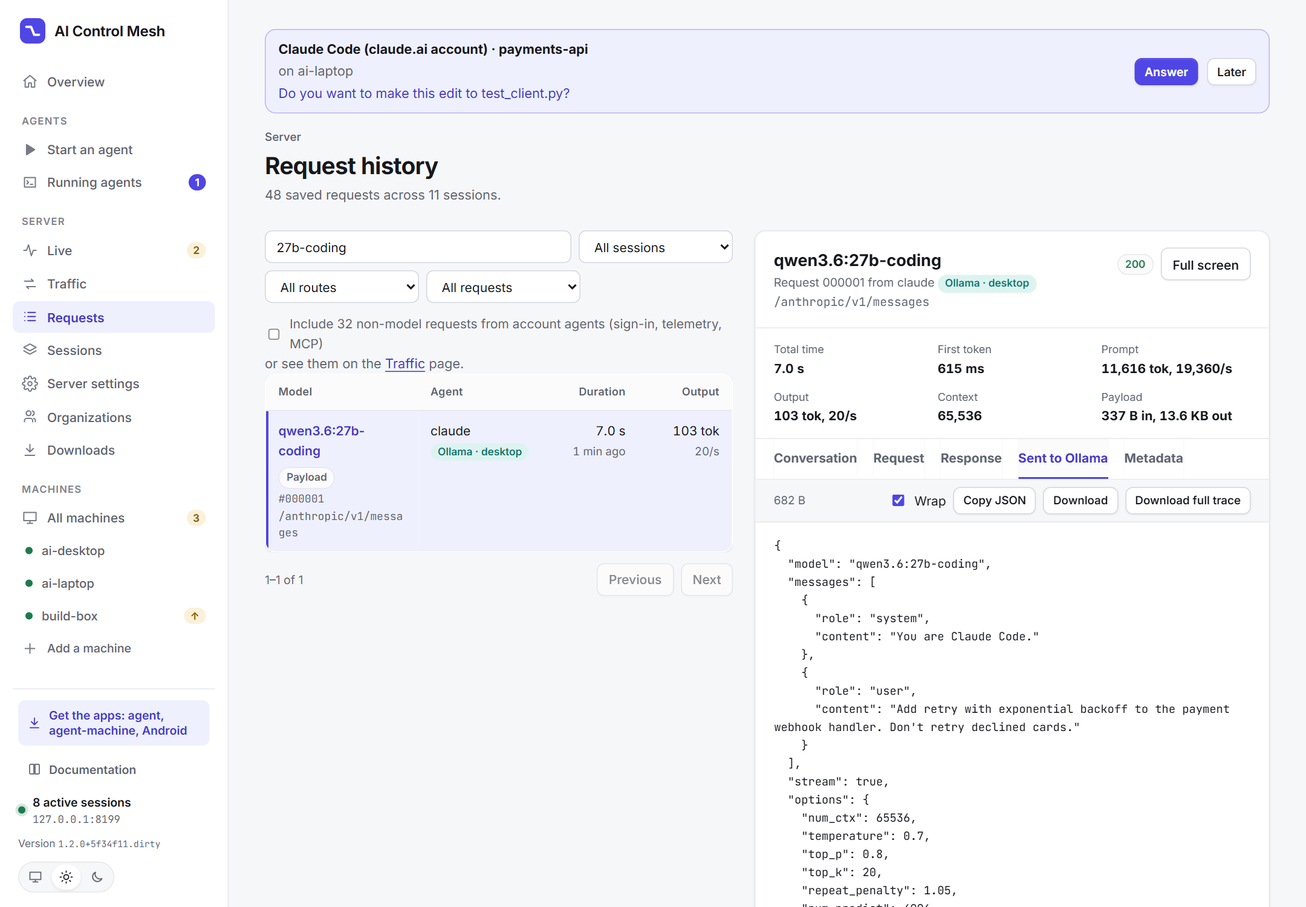
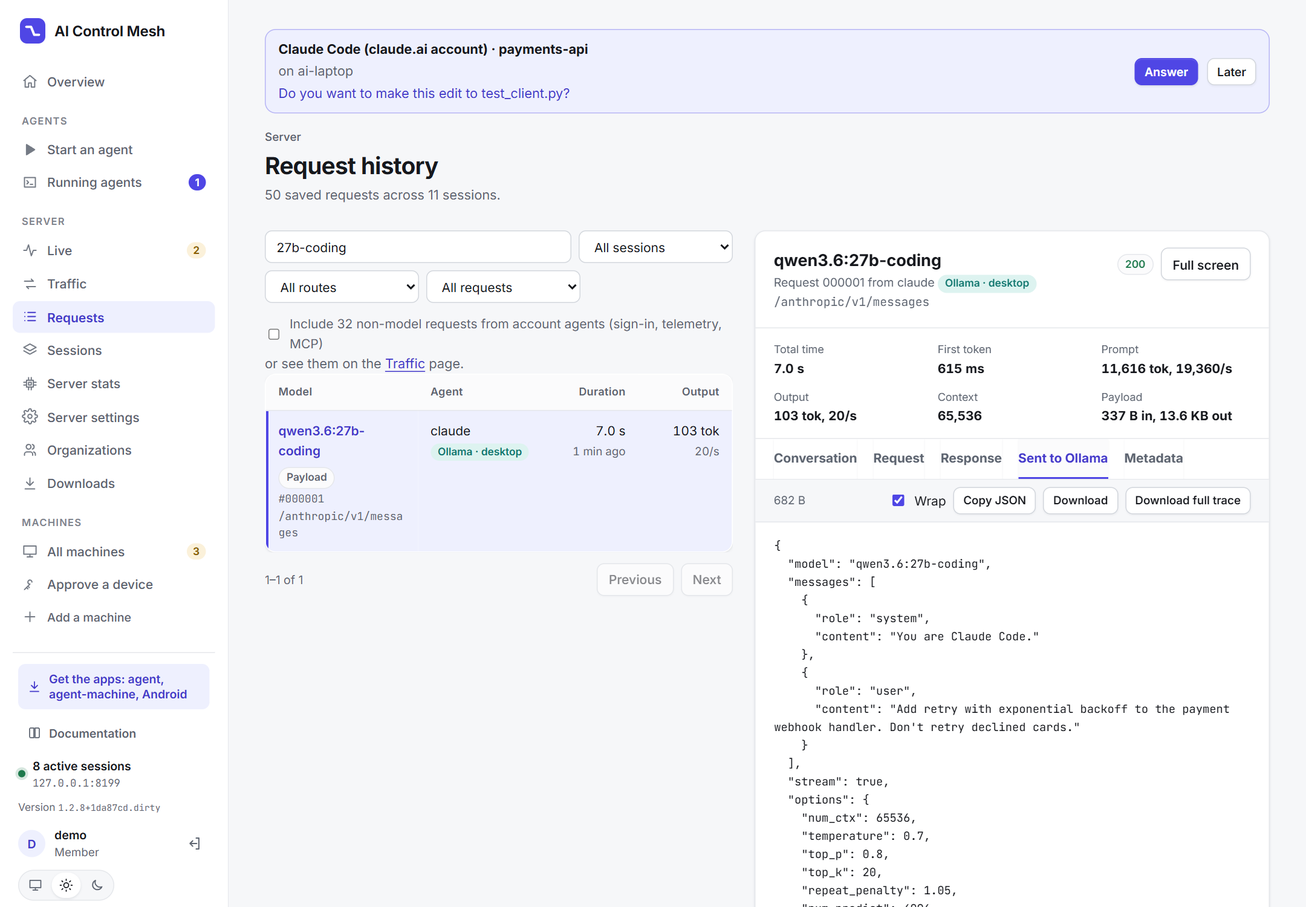
Review every docs page against the code, regenerate the screenshots, add Server stats; fix stale console and CLI wording

diff --git a/ui/src/pages/Settings.tsx b/ui/src/pages/Settings.tsx
@@ -126,7 +126,7 @@ export function SettingsPage() {
               <label className="field">
                 Listen host
                 <input value={host} onChange={(event) => setHost(event.target.value)} required />
-                <small>0.0.0.0 accepts other machines, and turns sign-in on.</small>
+                <small>0.0.0.0 accepts other machines. Sign-in is required either way.</small>
               </label>
               <label className="field">
                 Listen port
@@ -136,7 +136,7 @@ export function SettingsPage() {
               <label className="field span-2">
                 Address agent machines use
                 <input type="url" value={url} onChange={(event) => setUrl(event.target.value)} required />
-                <small>Shown for <code>agent login</code> and pairing. Use this machine's LAN or public address when sharing it.</small>
+                <small>Shown for <code>agent login</code> and <code>agent-machine login</code>. Use this machine's LAN or public address when sharing it.</small>
               </label>
               <label className="field span-2">
                 Public console address

diff --git a/site/index.html b/site/index.html
@@ -312,6 +312,7 @@
         <div class="section-heading">
           <p class="eyebrow eyebrow-dark">Make it your own</p>
           <h2 id="getting-started-title">A practical path<br>from checkout to mesh.</h2>
+          <p>Want to try it first? The <a href="https://console.aicontrolmesh.com/help/quickstart">quickstart</a> runs the server, sign-in, a database, two machines and Ollama on your own computer in containers, with one command.</p>
         </div>
         <ol class="setup-steps">
           <li><h3>Run your server</h3><p>Deploy with Docker or Python, put HTTPS in front of it, and create the accounts your team needs.</p><a href="https://console.aicontrolmesh.com/help/deployment">Deployment guide <span aria-hidden="true">→</span></a></li>

diff --git a/ui/src/pages/Sessions.tsx b/ui/src/pages/Sessions.tsx
@@ -178,7 +178,7 @@ export function SessionsPage() {
         onConfirm={() => removeAll.mutate()}
       >
         <p>
-          This permanently removes every saved request, telemetry file and payload, and deletes the sessions. Sessions
+          This permanently removes every saved request, payload and terminal recording, and deletes the sessions. Sessions
           used in the last 15 minutes stay, empty, so agents that are still running keep working. Sessions with a request
           in flight are skipped. It can't be undone.
         </p>

diff --git a/scripts/screenshots/demo.py b/scripts/screenshots/demo.py
@@ -52,6 +52,7 @@ LAPTOP, DESKTOP, ANTHROPIC, DOCKER = 18434, 18435, 18436, 18437
 PROXY = f"http://127.0.0.1:{PROXY_PORT}"
 AUTH = f"http://127.0.0.1:{AUTH_PORT}"
 DEMO_USER, DEMO_PASSWORD = "demo", "demo-screenshot-password"
+DEMO_ADMIN_PASSWORD = "demo-admin-screenshot-password"
 GB = 1024**3
 
 
@@ -1036,7 +1037,8 @@ def main() -> None:
     # The demo's own database (a SQLite file in its logs/), which the server below opens too.
     db = settings.open_database()
     users = UserStore(db)
-    users.add_user("demo-admin", secrets.token_urlsafe(32), role="admin")
+    # The admin capture.mjs signs in as for admin-only pages (Server settings, Server stats).
+    users.add_user("demo-admin", DEMO_ADMIN_PASSWORD, role="admin")
     users.add_user(DEMO_USER, DEMO_PASSWORD, role="member")
     issuer = Issuer(settings)
     try:
@@ -1098,7 +1100,7 @@ def main() -> None:
                     raise RuntimeError(f"Demo service did not become ready: {url}")
         credentials.headers()
         print(f"demo proxy on {PROXY} (data in {work})", flush=True)
-        print(f"isolated demo sign-in: {DEMO_USER} / {DEMO_PASSWORD}; issuer {AUTH}", flush=True)
+        print(f"isolated demo sign-in: {DEMO_USER} / {DEMO_PASSWORD}, admin demo-admin / {DEMO_ADMIN_PASSWORD}; issuer {AUTH}", flush=True)
         share_terminals()
         join_fleet()
         run_containers()

diff --git a/server/agent_server/commands.py b/server/agent_server/commands.py
@@ -40,7 +40,7 @@ def main(kind: str, argv: list[str]) -> int:
         elif kind == "config":
             text = sys.stdin.read() if args.file == "-" else Path(args.file).read_text(encoding="utf-8")
             changed = config_io.apply(Settings.load(), config_io.parse(text), replace=args.replace)
-            print(f"Stored {', '.join(changed) or 'nothing'}. A running agent-server picks up the listen address on its next restart.")
+            print(f"Stored {', '.join(changed) or 'nothing'}. A running agent-server uses them after a restart (agents at once).")
         elif args.action == "info":
             settings = Settings.load()
             db = settings.open_database()

diff --git a/server/agent_server/config.py b/server/agent_server/config.py
@@ -301,7 +301,7 @@ class Settings:
         else:
             effective_url = configured_url
         self.proxy_url = effective_url.rstrip("/")
-        self.default_backend = os.getenv("AI_PROXY_DEFAULT_BACKEND") or str(document.get("default_backend") or "laptop")
+        self.default_backend = os.getenv("AI_PROXY_DEFAULT_BACKEND") or str(document.get("default_backend") or defaults.DEFAULT_BACKEND)
         self.backends = {name: _backend(name, value) for name, value in (document.get("backends") or {}).items()}
         self.intercept = InterceptSettings.load(document.get("intercept") or {})
         tls = proxy_data.get("tls") or {}

diff --git a/server/agent_server/routes/management.py b/server/agent_server/routes/management.py
@@ -76,7 +76,7 @@ def register(app: FastAPI, runtime: Runtime) -> None:
 
     @app.post("/api/server/restart", status_code=202)
     async def restart(request: Request) -> dict[str, Any]:
-        """Restart with the configuration on disk, after in-flight requests finish (up to 30 s)."""
+        """Restart with the stored settings, after in-flight requests finish (up to 30 s)."""
         # Only admins get here (auth.ADMIN_ONLY).
         if not runtime.remote.trusted(request) or not remote.same_origin(request):
             raise HTTPException(status_code=401, detail="Sign in as an admin to restart the server.")

diff --git a/server/agent_server/app.py b/server/agent_server/app.py
@@ -315,7 +315,7 @@ def account_command(kind: str, argv: list[str]) -> int:
     """agent-server user|team|org ...: users, organizations and their teams, from the server's shell."""
     parser = argparse.ArgumentParser(
         prog=f"agent-server {kind}",
-        description="Users, organizations and their teams. With at least one user, everyone signs in.",
+        description="Users, organizations and their teams. Everyone signs in; the first start made an admin.",
     )
     commands = parser.add_subparsers(dest="action", required=True)
     if kind == "user":

diff --git a/server/agent_server/db/__init__.py b/server/agent_server/db/__init__.py
@@ -36,7 +36,10 @@ def sqlite_url(path: Path) -> str:
 
 
 def redacted(url: str) -> str:
-    """The URL with its password hidden, for logs and `agent-server db info`."""
+    """The URL with its password hidden, for logs and `agent-server db info`. A SQLite file's has none,
+    and is shown as it is (rendering it would percent-encode a Windows drive's colon)."""
+    if make_url(url).get_backend_name() == "sqlite":
+        return url
     return make_url(url).render_as_string(hide_password=True)
 
 

diff --git a/docs/api.md b/docs/api.md
@@ -43,7 +43,7 @@ Agents call these paths on their loopback agent-proxy, which authenticates all u
 | POST | `/anthropic/v1/messages`, `/session/{session_id}/anthropic/v1/messages` | Anthropic Messages: translated for Ollama, passed through to Anthropic, Strata and Docker Model Runner. |
 | POST | `/anthropic/v1/messages/count_tokens`, `/session/{session_id}/anthropic/v1/messages/count_tokens` | Token counting: passed through where the backend has it, estimated for Ollama. |
 | GET, POST, PUT, PATCH, DELETE | `/anthropic/{path}`, `/session/{session_id}/anthropic/{path}` | Any other Anthropic path, forwarded only with a hosted `anthropic` backend. |
-| GET, POST, DELETE | `/api/{path}`, `/session/{session_id}/api/{path}` | Native Ollama, for what agents call only: `chat`, `generate`, `embed`, `embeddings`, `tags`, `show`, `ps`, `version`. Profiles apply to `chat` and `generate` on Ollama; Docker Model Runner's Ollama API gets them unchanged; Strata has none. Anything else (`pull`, `delete`, ...) answers `404`: models are managed through their machine. With accounts, the unscoped `/api/{path}` needs a sign-in, so agents use the session path. |
+| GET, POST, DELETE | `/api/{path}`, `/session/{session_id}/api/{path}` | Native Ollama, for what agents call only: `chat`, `generate`, `embed`, `embeddings`, `tags`, `show`, `ps`, `version`. Profiles apply to `chat` and `generate` on Ollama; Docker Model Runner's Ollama API gets them unchanged; Strata has none. Anything else (`pull`, `delete`, ...) answers `404`: models are managed through their machine. The `agent-proxy` keeps its own unscoped `/api/...` for the launcher's calls, so agents use the session path. |
 | GET, POST, DELETE | `/session/{session_id}/mcp/{machine_id}/{name}` | A shared MCP server, as Streamable HTTP, relayed to its machine through its tunnel. Requires the `key` query parameter in the URL returned only to the launcher; the public session record contains no such token. Only the servers the session was started with; whoever started it must still hold the machine's `mcp` grant. Each POST is recorded in the session with its reply. See [MCP](mcp.md). |
 
 Account agents don't use these. Their HTTPS goes to the `agent-proxy`'s HTTPS proxy (`HTTPS_PROXY=http://<session>:agent-proxy@127.0.0.1:8183`), which carries each connection to `WS /api/proxy/tunnel` (below). The server refuses destinations that resolve to loopback, private, link-local or reserved IP addresses.
@@ -60,7 +60,7 @@ its in-flight entry and records `client_closed`.
 | Method | Path | Who | What it does |
 |---|---|---|---|
 | GET | `/health` | Public | `status`, the running instance's id, the server's `version`, `protocol` and `min_protocol`. |
-| GET | `/api/status` | Signed in | Totals, requests in flight, recent requests, intercept state, `default_backend`, whether a restart is needed for the listen address, and each machine backend's `provider`. With accounts, only sessions you can see. |
+| GET | `/api/status` | Signed in | Totals, requests in flight, recent requests, intercept state, `default_backend`, whether a restart is needed for the listen address, and each machine backend's `provider`. Only sessions you can see. |
 | GET | `/api/config` | Signed in | The editable network settings (`proxy.listen_host`, `listen_port`, `url`, `public_url`, `default_backend`, `backends`) and `restart_required`. |
 | PUT | `/api/config` | Admin | Stores them. Can remove local backends and add or edit hosted ones; refuses new or moved local ones. Without `backends`, leaves them alone; without `proxy.public_url`, leaves it as it is (`null` clears it). See [Configuration](configuration.md). |
 | GET | `/api/config/export` | Admin | Every setting as one YAML document (`proxy`, `default_backend`, `intercept`, `retention_days`, `backends`, `models`, `agents`); `?format=json` for JSON. |
@@ -74,15 +74,15 @@ its in-flight entry and records `client_closed`.
 | GET | `/api/config/storage` | Admin | `database` (`kind`: `sqlite` or `postgresql`, `url` with its password hidden, `size` in bytes) and `retention_days`. |
 | PUT | `/api/config/storage` | Admin | `{"retention_days": days}` (1 to 36500), or `null` to keep recordings until deleted. Old recordings go at once. |
 | GET | `/api/server/stats` | Admin | The server computer's load and disk use, read when asked (nothing is saved): `hostname`, `platform`, `boot_time`; `cpu` (`percent`, `count`, `load_average`, null on Windows); `memory` and `swap` (bytes, `percent`); `process` (agent-server's `pid`, `rss`, `cpu_percent` of one core, `threads`, `started_at`); `disks`, each filesystem holding the log or build folder once (`mountpoint`, `total`, `used`, `free`, `percent`, `folders`); `folders` (`name`, `path`, `bytes`) and `database` (`kind`, `bytes`), measured in the background every five minutes, so `bytes` is null until `folders_measured_at` is set. |
-| POST | `/api/server/restart` | Admin, Trusted, Same origin | Restarts with the configuration on disk once in-flight requests finish (up to 30 s). Answers `202` with `waiting_for` and the address it comes back on. `409` when the server can't restart itself (`--reload`). |
+| POST | `/api/server/restart` | Admin, Trusted, Same origin | Restarts with the stored settings once in-flight requests finish (up to 30 s). Answers `202` with `waiting_for` and the address it comes back on. `409` when the server can't restart itself (`--reload`). |
 
 ## Sessions and requests
 
 | Method | Path | Who | What it does |
 |---|---|---|---|
-| POST | `/api/sessions` | Signed in | Opens a session for other tools: `client`, `project`, `model`, `backend` (or `direct`), `trace`, `tags`, and with accounts `visibility`, `team`, `org`, `access`. A `shell` client is always private. |
+| POST | `/api/sessions` | Signed in | Opens a session for other tools: `client`, `project`, `model`, `backend` (or `direct`), `trace`, `tags`, and sharing: `visibility`, `team`, `org`, `access`. A `shell` client is always private. |
 | GET | `/api/sessions` | Signed in | The sessions you can see, each with its `machine` and what `you` may do. |
-| DELETE | `/api/sessions` | Signed in | Deletes all saved traffic. Ended sessions and open ones idle for 15 minutes are deleted; recently active ones keep running but lose their data; ones with requests in flight are skipped. With accounts, only your own (and admins: sessions without an owner). |
+| DELETE | `/api/sessions` | Signed in | Deletes all saved traffic. Ended sessions and open ones idle for 15 minutes are deleted; recently active ones keep running but lose their data; ones with requests in flight are skipped. Only your own (and admins: sessions without an owner). |
 | GET | `/api/sessions/{session_id}` | Signed in, can view | One session. |
 | PATCH | `/api/sessions/{session_id}` | Signed in, can control | Ends it (`ended`, `exit_status`), switches capture (`trace`), or for its owner changes its sharing (`visibility`, `team`, `org`, `access`). Narrowing the sharing drops terminal viewers who lose access. A shell can't be shared. |
 | DELETE | `/api/sessions/{session_id}` | Signed in, can control | Deletes it. `409` while requests are in flight. |
@@ -249,12 +249,12 @@ OpenAPI can't describe these. All need **Trusted** (a sign-in; machines send the
 
 ## Check
 
-This page lists all 115 routes the app registers, from `app.routes` of a server built in a temporary folder: 110 HTTP routes, the 5 WebSockets above, plus the `/assets` static mount.
+This page lists all 125 routes the app registers, from `app.routes` of a server built in a temporary folder: 120 HTTP routes, the 5 WebSockets above, plus the `/assets` static mount.
 
 | Area | Routes |
 |---|---|
 | Agent-facing | 10 (5 paths, each unscoped and under `/session/{session_id}/`) plus the MCP relay |
-| Health and the server | 6 |
+| Health and the server | 16 |
 | Sessions and requests | 13 |
 | Live traffic | 2 |
 | Agents and models | 4 (with `/api/mcp`) |
@@ -268,4 +268,4 @@ This page lists all 115 routes the app registers, from `app.routes` of a server 
 | OpenAPI | 4 |
 | Proxy tunnel | 1 WebSocket |
 
-That is 10 + 1 + 6 + 13 + 2 + 4 + 3 + 20 + 7 + 8 + 27 + 6 + 3 + 4 + 1 = 115. Each is in a table above.
+That is 10 + 1 + 16 + 13 + 2 + 4 + 3 + 20 + 7 + 8 + 27 + 6 + 3 + 4 + 1 = 125. Each is in a table above.

diff --git a/docs/deployment.md b/docs/deployment.md
@@ -1,6 +1,6 @@
 # Deployment
 
-**Authentication is mandatory.** For public deployments, run `agent-auth` separately at **auth.aicontrolmesh.com**, register API callbacks, configure the shared introspection secret and provide HTTPS. The root Compose includes the issuer on host loopback :10000 with private persistent state. See [OIDC authentication](oidc.md) before starting or upgrading public services. The local demo below includes its own loopback issuer.
+**Authentication is mandatory.** For public deployments, run `agent-auth` separately at **auth.aicontrolmesh.com**, register API callbacks, configure the shared introspection secret and provide HTTPS. The root Compose includes the issuer on host loopback :10000, with its state in its own PostgreSQL schema. See [OIDC authentication](oidc.md) before starting or upgrading public services. The local demo below includes its own loopback issuer.
 
 How to run the server for other machines and people, put HTTPS in front of it, and get `agent` and `agent-machine` onto the computers that use it.
 
@@ -112,7 +112,7 @@ On its first start the service runs `server/docker/postgres-init.sh`, which make
 
 ### A PostgreSQL of your own
 
-Run the same statements as its administrator, with your own passwords, then give the two programs their URLs:
+Make a database named `mesh` (`CREATE DATABASE mesh;`), then run the same statements in it as its administrator, with your own passwords, and give the two programs their URLs:
 
 ```sql
 CREATE ROLE mesh_api LOGIN PASSWORD '...';
@@ -120,10 +120,11 @@ CREATE ROLE mesh_auth LOGIN PASSWORD '...';
 CREATE SCHEMA mesh AUTHORIZATION mesh_api;
 CREATE SCHEMA mesh_auth AUTHORIZATION mesh_auth;
 REVOKE ALL ON SCHEMA public FROM PUBLIC;
+REVOKE ALL ON DATABASE mesh FROM PUBLIC;
 GRANT CONNECT ON DATABASE mesh TO mesh_api, mesh_auth;
 ```
 
-Start `agent-server` once before `agent-auth`'s first sign-in: until the server has made its tables and granted `mesh_auth` read access, agent-auth finds no accounts.
+Keep these role and schema names: the server grants `mesh_auth` its read access by name. Start `agent-server` once before `agent-auth`'s first sign-in: until the server has made its tables and granted `mesh_auth` read access, agent-auth finds no accounts.
 
 ### Backups
 
@@ -185,7 +186,7 @@ Set `proxy.public_url` to the console's HTTPS address. CLI installation/login us
 
 ### nginx and Let's Encrypt on Windows
 
-`scripts/https/setup-https.ps1` sets up nginx with a Let's Encrypt certificate that renews itself. It serves the brochure site on the apex and `www` hostnames, the application on `console.<domain>`, and agent/machine API requests on `api.<domain>`. Point all four DNS names to this host, start the Compose services, then run it once from an elevated PowerShell; rerun it any time, and it picks up where things are:
+`scripts/https/setup-https.ps1` sets up nginx with a Let's Encrypt certificate that renews itself. It serves the brochure site on the apex and `www` hostnames, the application on `console.<domain>`, agent/machine API requests on `api.<domain>`, and the OIDC issuer on `auth.<domain>`. Point all five DNS names to this host, start the Compose services, then run it once from an elevated PowerShell; rerun it any time, and it picks up where things are:
 
 ```powershell
 powershell -ExecutionPolicy Bypass -File scripts\https\setup-https.ps1 -HostName aicontrolmesh.com -AdditionalHostNames aiproxy.hopto.me -Email you@example.net
@@ -193,7 +194,7 @@ powershell -ExecutionPolicy Bypass -File scripts\https\setup-https.ps1 -HostName
 
 It installs, under `-Root` (default `C:\ProgramData\agent-proxy-https`):
 
-- **nginx** for Windows, serving plain HTTP on `-HttpPort` (9980) for Let's Encrypt's check, and HTTPS on `-HttpsPorts` (9443 and 9998). The apex and `www` proxy to `-SiteBackend` (`http://127.0.0.1:8080`), the console to `-ConsoleBackend` (`http://127.0.0.1:8081`), and the API to `-Backend` (`http://127.0.0.1:9999`);
+- **nginx** for Windows, serving plain HTTP on `-HttpPort` (9980) for Let's Encrypt's check, and HTTPS on `-HttpsPorts` (9443 and 9998). The apex and `www` proxy to `-SiteBackend` (`http://127.0.0.1:8080`), the console to `-ConsoleBackend` (`http://127.0.0.1:8081`), the API to `-Backend` (`http://127.0.0.1:9999`), and the issuer to `-AuthBackend` (`http://127.0.0.1:10000`);
 - **win-acme**, the Let's Encrypt client, which proves the name with a file nginx serves under `/.well-known/acme-challenge/`, writes the certificate, and renews it from its own scheduled task, reloading nginx;
 - a scheduled task, `agent-proxy-https nginx`, that starts nginx at boot, and firewall rules for the ports.
 
@@ -204,10 +205,12 @@ The name has to reach this computer from the internet on port 80 for Let's Encry
 | `-HostName` | The primary DNS name to get a certificate for (default: `aicontrolmesh.com`). |
 | `-ConsoleHostName` | The application hostname (default: `console.<HostName>`). |
 | `-ApiHostName` | The agent and machine API hostname (default: `api.<HostName>`). Its `/` redirects to the console. |
+| `-AuthHostName` | The OIDC issuer's hostname (default: `auth.<HostName>`). |
 | `-AdditionalHostNames` | Comma-separated DNS aliases for the API, included in the certificate (default: `aiproxy.hopto.me`). Their `/` redirects to the console. HTTP requests keep their hostname when redirected to HTTPS. |
 | `-Email` | Your address, for Let's Encrypt. |
 | `-Root` | Where nginx, win-acme and the certificates go. |
 | `-Backend` | The server nginx forwards to. |
+| `-AuthBackend` | The issuer nginx forwards to (default: `http://127.0.0.1:10000`). |
 | `-ConsoleBackend` | The static console nginx forwards to (default: `http://127.0.0.1:8081`). |
 | `-SiteBackend` | The static brochure site nginx forwards to. |
 | `-HttpPort`, `-HttpsPorts` | The ports nginx listens on. `-HttpsPorts` is comma-separated. |
@@ -343,6 +346,8 @@ So to roll out a new version: build it on the server's computer (`scripts/build-
 | Port | What listens | Where |
 |---|---|---|
 | 9999 | `agent-server`: the API, the console, and everything machines and agents send | All interfaces, from the stored `proxy` setting (`AI_PROXY_HOST`, `AI_PROXY_PORT`) |
+| 10000 | `agent-auth`, the OIDC issuer, behind the reverse proxy as `auth.<domain>` | Loopback (`AI_PROXY_AUTH_HOST`, `AI_PROXY_AUTH_PORT`) |
+| 8080, 8081 | The brochure site and the standalone console in Compose, behind the reverse proxy | Loopback |
 | 8184 | Each agent machine's `agent-proxy`: its launcher API and agents' model endpoints | Loopback only (`AI_PROXY_LOCAL_PORT`) |
 | 8183 | Each agent machine's `agent-proxy`: the HTTPS proxy for account agents | Loopback only (`AI_PROXY_LOCAL_INTERCEPT_PORT`) |
 | 9980, 9443, 9998 | nginx from `setup-https.ps1`: HTTP for Let's Encrypt, HTTPS | All interfaces |
@@ -351,4 +356,4 @@ So to roll out a new version: build it on the server's computer (`scripts/build-
 | 12434 | Docker Model Runner | On its machine |
 | 5173 | Vite, in development | This computer |
 
-Only the server's port has to be reachable from other machines. Account agents' HTTPS travels over it, tunnelled by each `agent-proxy`, and so does agents' traffic to a machine's model servers when that machine's `agent-machine` can tunnel, so model servers can stay on loopback. The server needs no other open port. The server listens on 8183 itself only when `intercept.listen_port` is set.
+Only the server's port, and the issuer's for signing in (through the reverse proxy), have to be reachable from other machines. Account agents' HTTPS travels over it, tunnelled by each `agent-proxy`, and so does agents' traffic to a machine's model servers when that machine's `agent-machine` can tunnel, so model servers can stay on loopback. The server needs no other open port. The server listens on 8183 itself only when `intercept.listen_port` is set.

diff --git a/docs/console.md b/docs/console.md
@@ -30,8 +30,8 @@ The rail on the left has three parts, in the order a request flows:
 | Part | Pages | What it's for |
 | --- | --- | --- |
 | **1 Agents** | Start an agent, Running agents | Start a coding agent through the server, then watch it and type into it from any device. |
-| **2 Server** | Live, Traffic, Requests, Sessions, Server settings, Organizations, Downloads | The hub: allowed agent requests pass through it and are recorded. |
-| **3 Machines** | All machines, Add a machine | Open **All machines** to search and select a computer. Individual machines aren't listed in the rail. |
+| **2 Server** | Live, Traffic, Requests, Sessions, Server stats, Server settings, Organizations, Downloads | The hub: allowed agent requests pass through it and are recorded. |
+| **3 Machines** | All machines, Approve a device, Add a machine | Open **All machines** to search and select a computer. Individual machines aren't listed in the rail. |
 
 - The small label above each page's title is its breadcrumb ("Machines › build-box").
 - The footer of the rail links to **Downloads** and **Documentation**, and shows how many sessions are open, the server's address and its version.
@@ -185,6 +185,8 @@ Account agents' other calls (sign-in, telemetry, MCP) aren't shown here; they're
 
 ## Server stats
 
+![Server stats](screenshots/server-stats.png)
+
 `/server-stats` (admins only) shows how hard the computer running the server is working and how full its disks are. It asks the server every 2 seconds while it's open and keeps the last five minutes on the page; nothing is saved. A machine's own load is on its [Load tab](#load).
 
 - **The computer**: its name, system, how long it's been up and how long the server has been running.
@@ -203,7 +205,7 @@ Account agents' other calls (sign-in, telemetry, MCP) aren't shown here; they're
 - **Agents**: every agent launchers can start, each marked **Shipped**, **Shipped, changed** or **Added here**. **Edit** opens its definition as YAML; **Add an agent** takes an id and a definition; **Remove** stops launchers offering it. **Reset to the shipped one** undoes changes to an agent that ships with the server. Shipped agents follow the server's upgrades until you change them. See [Adding a new agent](agents.md#adding-a-new-agent).
 - **Ollama model tuning**: the `defaults`, `profiles` and `aliases` the server applies to requests it sends to Ollama, as one YAML document. **Save tuning** applies it to new requests. See [Model tuning](providers.md#model-tuning).
 - **Storage**: which database the server uses (SQLite or PostgreSQL, its address without the password, and its size), and **Keep payloads and terminals for** a number of days since a session's last request. Older sessions lose their payloads and terminal recordings; their requests and token counts stay. Empty keeps everything.
-- **Restart the server**: restarts it once requests in flight finish, and says where it comes back. It picks up a new listen address, and settings changed from the command line (`agent-server config import`).
+- **Restart the server** (shown when the server can restart itself, which it can't when started with `--reload`): restarts it once requests in flight finish, and says where it comes back. It picks up a new listen address, and settings changed from the command line (`agent-server config import`).
 
 To copy the settings to another server or keep them in version control, use `agent-server config export` and `import` (see [Configuration](configuration.md)). **API reference** links to the server's OpenAPI pages (`/docs`).
 
@@ -261,11 +263,11 @@ Only approve a code from a sign-in you started yourself: approving lets that com
 
 ![A machine's summary](screenshots/machine.png)
 
-`/machines/<id>` has a header with the machine's name, state and system, **Start an agent** and **Open a terminal** (when you may use them), and, when the machine runs another build than the server, **Update now** (with **Update agent there too**) for its owner or an admin. Below it, a tab per function. Tabs you can't use aren't shown.
+`/machines/<id>` has a header with the machine's name, state and system, **Start an agent** and **Open a terminal** (when you may use them), and, when the machine runs another build than the server, **Update now** (with **Update agent there too**) for its owner or an admin. Below it, a tab per function. **Ollama server** shows only when Ollama is installed there, **Containers** only when the machine runs containers, **MCP servers** for its owner or when it shares some, and **Access** for those who manage it.
 
 ### Summary
 
-**What it supports**: each feature (launches, terminals, model servers, containers, updates, MCP) and whether it's on there and open to you, with the command that turns it on. **Details**: machine id, computer name, owner, address, system, agent-machine version and protocol, launch folders, first seen and last contact. **Remove from this server** (owner or admin) disconnects it and refuses it until it's allowed back.
+Cards for its state, last contact, agent-machine version and running agents. **What it supports**: each feature (agents, terminals, model servers, running Ollama and Strata, containers, updates from here, the tunnel) and whether it's on there and open to you, with the command that turns it on. **Details**: owner, system, computer name, address, first seen, last contact, protocol and machine id. **Remove from this server** (owner or admin) disconnects it and refuses it until it's allowed back.
 
 ### Agents
 
@@ -294,7 +296,7 @@ The model servers it runs (Ollama, Strata, Docker Model Runner, and the containe
 Each model server has its own tab, named after its provider (or `Ollama :11434` until it is one). Everything here is done by the machine:
 
 - **Ollama**: **Models** (each model's size, whether it's loaded and where, the agent requests it served, and load, unload and delete), **Aliases** (the model tuning's aliases that point at it, with their settings; change them on [Server settings](#server-settings)) and **Find and pull** (search the Ollama library and Hugging Face, or pull by name, with progress).
-- **Strata**: **Overview** (state, profile, engine, uptime, model, context, prompt and generation speed, speculative decoding), **Hardware**, **Models** (load and unload), **Connect agents** (the agent commands for it) and **Log** (server and engine logs, key blanked).
+- **Strata**: **Overview** (state, profile, engine, uptime, model, context, prompt and generation speed, speculative decoding, with **Load** and **Unload**, then its **Hardware** and **Models**), **Connect agents** (the agent commands for it) and **Log** (server and engine logs, key blanked).
 - **Docker Model Runner**: **Models**, **Get models** (search Docker Hub's `ai/` models and their tags, or pull by name) and **Connect agents**.
 
 When the machine doesn't report an Ollama or Strata running, its tab says why at the top and what to do: **Start Ollama**, or **Start** a Strata profile, when it's installed there and you may manage the machine's servers (`agent-machine servers on`); otherwise whether it isn't installed, or how to let the console start it.
